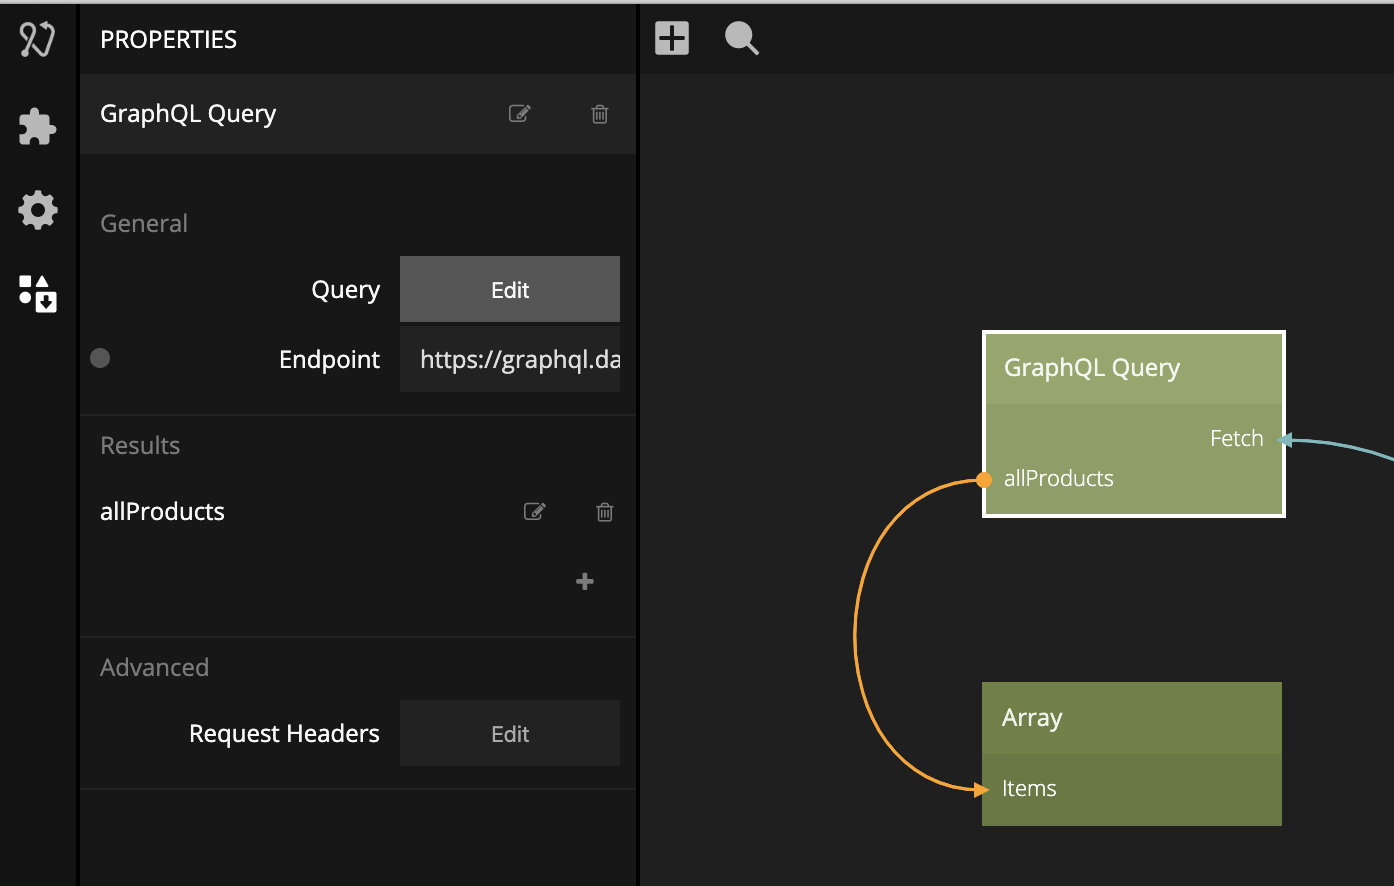
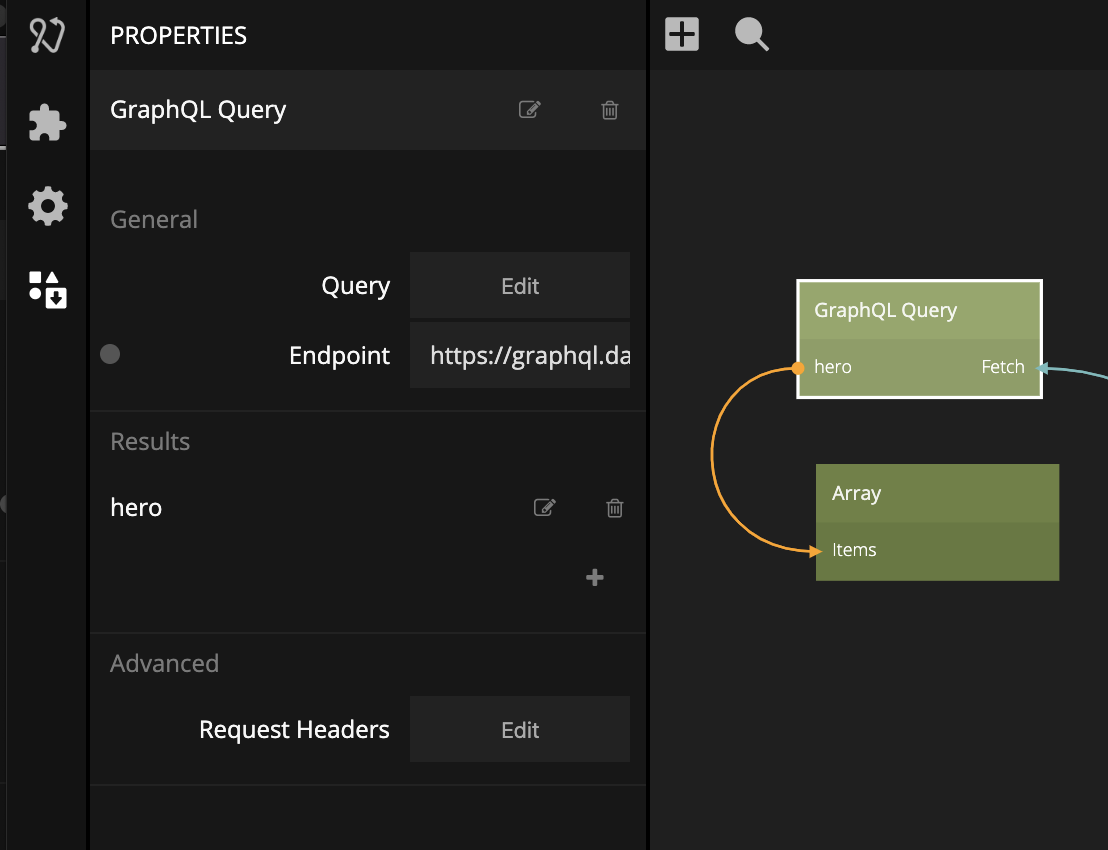
Added image to GraphQL Query node and link to guide

diff --git a/modules/graphql/graphql-node.md b/modules/graphql/graphql-node.md
@@ -2,7 +2,11 @@
 
 This node enables you to connect to GraphQL based API:s in a quick and easy way.
 
-!> Note: To use the GraphQL node you first need to add the GraphQL module to your project.
+!> Note: To use the GraphQL node you first need to [add](modules/graphql/graphql-guide.md) the GraphQL module to your project.
+
+<div class="ndl-images">
+    <img src="/modules/graphql/graphql-guide-img/graphql-query-node.png" class="ndl-image medium"></img>  
+</div>
 
 ## INPUTS
 
